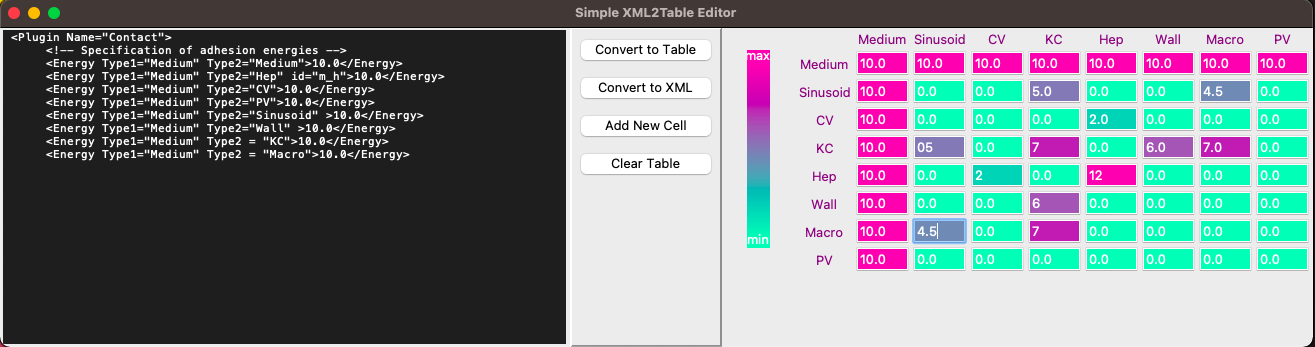
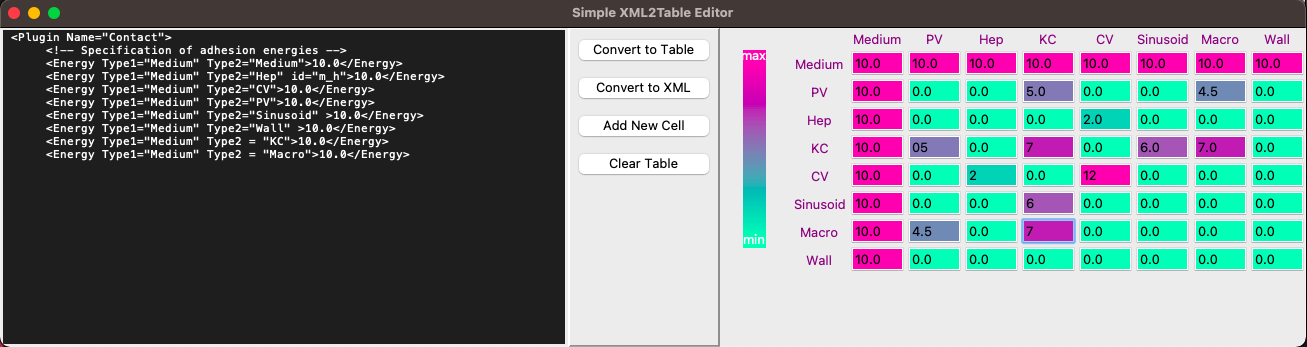
change entry text color to black since the bg color range is light

diff --git a/utils/EventHandler.py b/utils/EventHandler.py
@@ -101,7 +101,10 @@ class EventHandler:
             entry = tk.Entry(master = self.frame4table, width = 5)
             entry.grid(row = 1, column = 1)
             entry.insert(0, self.table[0,0])
+            # set the initial color ???
+            #color = self.compute_color(self.table[0,0], )
             self.entries.append([entry, None])
+
 
         else:
             #N = len(self.names)
@@ -134,6 +137,8 @@ class EventHandler:
                             #if self.table[i,j] > 0: # Excluding non-positive values
                             color = self.compute_color(self.table[i,j], self.min_val, self.max_val)
                             entry.configure(bg = color)
+                            # if the color range of the bg is light, need to set the text color to black
+                            entry.configure(foreground = "black")
 
                             self.diag_entries.append(entry) # Store the created entry for event function binding
 
@@ -159,6 +164,10 @@ class EventHandler:
                             color = self.compute_color(self.table[i,j], self.min_val, self.max_val)
                             twin_entries.entry1.configure(bg = color)
                             twin_entries.entry2.configure(bg = color)
+
+                            # if the color range of the bg is light, need to set the text color to black
+                            twin_entries.entry1.configure(foreground = "black")
+                            twin_entries.entry2.configure(foreground = "black")
 
                             row_entries.append([twin_entries.entry1, twin_entries.entry2])
                 self.entries.append(row_entries)
